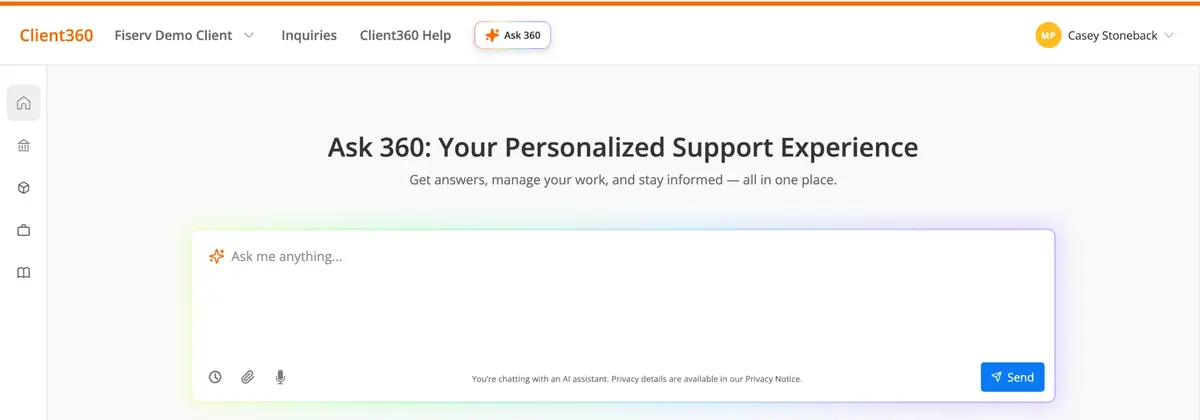
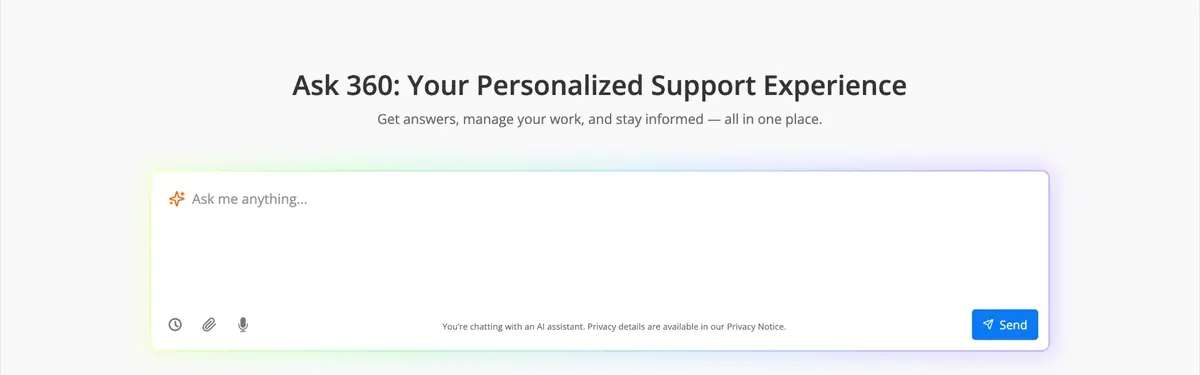
Centre the Ask 360 card image on the composer
Cropping at the window edge could never centre it: the portal has a left
sidebar, so the content column's centre is not the window's centre, and
any crop that balanced the composer also clipped the Client360 logo.

Cropped to the content area instead, dropping the sidebar and the nav
row. The composer now sits dead centre with equal margins, and no text
is cut off. The full portal view with the nav is still on the case study
page, where there is room for it.

Claude-Session: https://claude.ai/code/session_01KqA7QoJsgiT9ekyeZLtB6S

diff --git a/index.html b/index.html
@@ -5,7 +5,7 @@
 <meta name="viewport" content="width=device-width, initial-scale=1.0">
 <title>Casey Stoneback</title>
 <meta name="description" content="Casey Stoneback, product and UX designer doing conversational design for AI at Fiserv.">
-<link rel="stylesheet" href="css/style.css?v=27">
+<link rel="stylesheet" href="css/style.css?v=28">
 </head>
 <body>
 
@@ -75,7 +75,7 @@
               <span class="frame-dot"></span>
               <span class="frame-dot"></span>
             </div>
-            <img src="assets/images/ask360-card.webp" alt="Ask 360 inside the Client360 portal, showing the ask-anything field" width="1200" height="420" loading="lazy">
+            <img src="assets/images/ask360-card.webp" alt="Ask 360 inside the Client360 portal, showing the ask-anything field" width="1200" height="375" loading="lazy">
           </div>
         </div>
       </div>
@@ -131,6 +131,6 @@
   </div>
 </footer>
 
-<script src="js/reveal.js?v=27" defer></script>
+<script src="js/reveal.js?v=28" defer></script>
 </body>
 </html>

diff --git a/work/projects.html b/work/projects.html
@@ -4,7 +4,7 @@
 <meta charset="UTF-8">
 <meta name="viewport" content="width=device-width, initial-scale=1.0">
 <title>Projects and Implementations in the Client Portal | Casey Stoneback</title>
-<link rel="stylesheet" href="../css/style.css?v=27">
+<link rel="stylesheet" href="../css/style.css?v=28">
 </head>
 <body>
 

diff --git a/work/lineleap.html b/work/lineleap.html
@@ -4,7 +4,7 @@
 <meta charset="UTF-8">
 <meta name="viewport" content="width=device-width, initial-scale=1.0">
 <title>Deciding What to Build in LineLeap Social | Casey Stoneback</title>
-<link rel="stylesheet" href="../css/style.css?v=27">
+<link rel="stylesheet" href="../css/style.css?v=28">
 </head>
 <body>
 

diff --git a/work/ask360.html b/work/ask360.html
@@ -4,7 +4,7 @@
 <meta charset="UTF-8">
 <meta name="viewport" content="width=device-width, initial-scale=1.0">
 <title>Ask 360: AI Support Assistant | Casey Stoneback</title>
-<link rel="stylesheet" href="../css/style.css?v=27">
+<link rel="stylesheet" href="../css/style.css?v=28">
 </head>
 <body>
 

diff --git a/about.html b/about.html
@@ -4,7 +4,7 @@
 <meta charset="UTF-8">
 <meta name="viewport" content="width=device-width, initial-scale=1.0">
 <title>About | Casey Stoneback</title>
-<link rel="stylesheet" href="css/style.css?v=27">
+<link rel="stylesheet" href="css/style.css?v=28">
 </head>
 <body>
 
